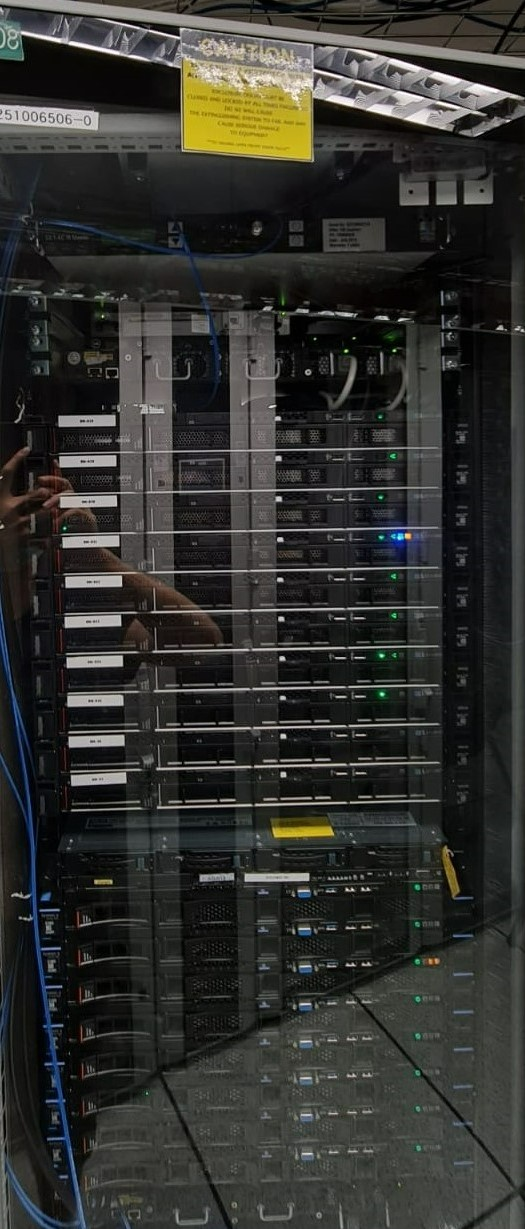
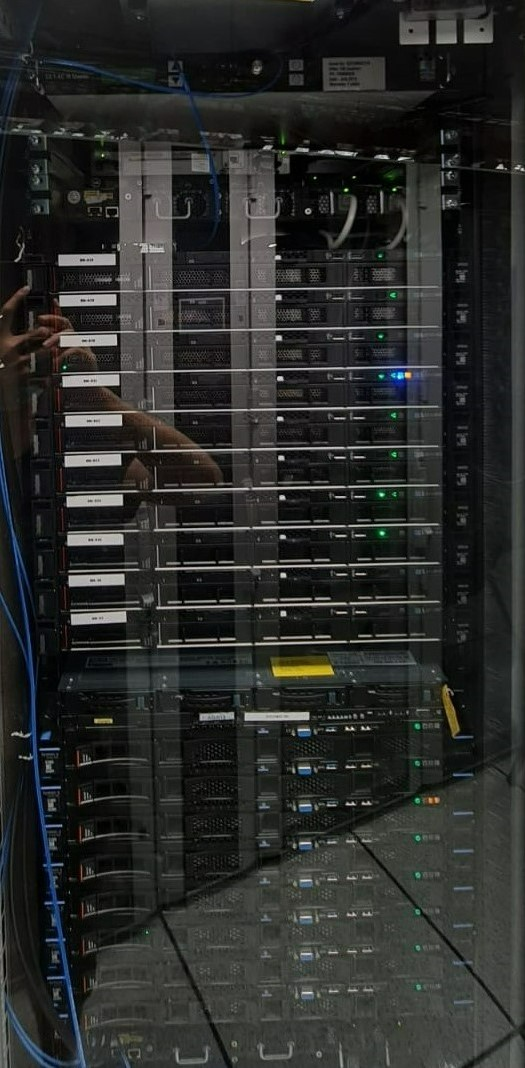
images update for website and staff directory

diff --git a/src/main/resources/templates/testbed_information.html b/src/main/resources/templates/testbed_information.html
@@ -16,10 +16,21 @@
 <p>&nbsp;</p>
 <p>&nbsp;</p>
 
-<div class="container" style="background-image: url('images/publication_back7.jpg'); object-fit: fill;object-position: 50% 50%;">
+<!--<div class="container" style="background-image: url('images/publication_back7.jpg'); object-fit: fill;object-position: 50% 50%;">-->
+    <div class="container">
     <!--<p class="heading h15 text-center">Testbed Info</p>-->
 
     <p align="Center"><b><font size="30px" color="#0d6dba">Testbed Info</font></b></p>
+    <div class="col-sm-4">
+        &nbsp;
+        <div class="row">
+            <img src="images/datacenter_ pics.jpg" alt="" width="350"  height="380" border="0" align="right" />
+        </div>
+        &nbsp;
+        <div class="row">
+            <img src="images/datacenter_ pics3.jpg" alt="" width="350"  height="420" border="0" align="right" />
+        </div>
+    </div>
     <div class="col-sm-8">
      <div class="row">
         <div class="panel panel-primary dashpanel">
@@ -48,6 +59,46 @@
             <p><i class="fa fa-check"></i> GPU: (2) NVIDIA Tesla V100 16GB HBM2 / Tesla P100 12GB HBM2</p>
         </div> <!-- panel -->
     </div>
+<!--
+    <div class="row">
+        <p>&nbsp;</p>
+        <div class="panel panel-primary dashpanel">
+            <h2 class="team-heading team-heading-current-team" th:text="#{image.heading.global}">text heading from .properties</h2>
+            <p>&nbsp;</p>
+            <div class="table-responsive">
+                <table class="table1">
+                    <thead BGCOLOR="#E0E0E0">
+                    <th width="30%"><p><h4><strong th:text="#{image.name}">Name</strong></h4></p></th>
+                    <th width="20%"><p><h4><strong th:text="#{image.OS}">OS</strong></h4></p></th>
+                    <th width="50%"><p><h4><strong th:text="#{image.description}">Description</strong></h4></p></th>
+                    </thead>
+                    <tr BGCOLOR="#fff">
+                        <td><div align="center">Ubuntu1404-64-STD</div></td>
+                        <td><div align="center">Linux</div></td>
+                        <td><div align="center">Ubuntu 14.04 LTS 64 bit Standard Image</div></td>
+                    </tr>
+                    <tr BGCOLOR="#fff">
+                        <td><div align="center">Ubuntu1604-64-STD</div></td>
+                        <td><div align="center">Linux</div></td>
+                        <td><div align="center">Ubuntu 16.04 LTS 64 bit Standard Image</div></td>
+                    </tr>
+                    <tr BGCOLOR="#fff">
+                        <td><div align="center">Ubuntu1604-64-GUI</div></td>
+                        <td><div align="center">Linux</div></td>
+                        <td><div align="center">Ubuntu 16.04 LTS 64 bit Image with Desktop GUI and VNC. NOTE: after the experiment is running, please first login to the nodes (using SSH client or web-ssh) and start vnc server by running 'vncserver'.</div></td>
+                    </tr>
+                </table>
+            </div>
+            <p>&nbsp;</p>
+            <p>To load a particular OS image onto your nodes, simply use the <code>tb-set-node-os</code> directive in your network configuration, e.g.:</p>
+            <pre><p># Set OS for node 'n0'</p><p>tb-set-node-os $n0 Ubuntu1604-64-STD</p></pre>
+        </div> &lt;!&ndash; panel &ndash;&gt;
+    </div>-->
+</div>
+
+</div> <!-- container -->
+
+<div class="container">
 
     <div class="row">
         <p>&nbsp;</p>
@@ -84,6 +135,7 @@
         </div> <!-- panel -->
     </div>
 
+
     <div class="row">
         <p>&nbsp;</p>
 
@@ -118,24 +170,16 @@
             </div>
             <form>
                 <ul>
-                    <li><i class=""></i> <span> Phone: </span>+65 6601 1056</li>
-                    <li><i class=""></i><span>Email:</span><a th:href="#{support.email.link}" th:text="#{support.email}"></a></li>
-                    <li><i class=""></i> <span> Address: </span><a href="https://www.google.com.sg/maps/dir//NUS+Computing,+13+Computing+Drive,+117417/@1.3437459,103.8240449,11z/data=!4m8!4m7!1m0!1m5!1m1!1s0x31da1af8c0faba33:0x9f0d02392be4dfbe!2m2!1d103.773846!2d1.295053?hl=en" >13 COMPUTING DRIVE, COM1 #01-16 Singapore 117417</a></li>
+                    <li><h4><span> Phone : </span>+65 6601 1056</h4></li>
+                    <li><h4><span> Address: </span><a href="https://www.google.com.sg/maps/place/Innovation+4.0/@1.2947287,103.7407406,13z/data=!4m5!3m4!1s0x31da1b3be9c6fabd:0xa50c38c2456942de!8m2!3d1.2946431!4d103.7757601?hl=en" >Innovation 4.0,3 Research Link,NUS,Singapore-117602</a></h4></li>
+                    <li><h4><span>Email:</span><a th:href="#{support.email.link}" th:text="#{support.email}"></a></h4></li>
+                    <p>&nbsp;</p>
                 </ul>
                 <p>&nbsp;</p>
             </form>
         </div>
-      </div>
     </div>
-
-    <div class="col-sm-4">
-        <div class="row">
-        </div>
-        <div class="row">
-                    <img src="images/datacenter_ pics.jpg" alt="" width="350"  height="850" border="0" align="right" />
-        </div>
-    </div>
-</div> <!-- container -->
+</div> <!--Container 2 closes-->
 
 <div th:replace="fragments/footer :: footer"></div>
 <object th:include="fragments/javascript :: javascript" th:remove="tag" />

diff --git a/src/main/resources/templates/people.html b/src/main/resources/templates/people.html
@@ -57,28 +57,20 @@
           <div class="row">
            <h8><b>Nidhi Kushwah</b></h8>
                <p><b><font color="585656"> Manager (Business Operations )</font></b> </p>
-              <p>Programme Management | Web Application Development</p>
+              <p>Programme Management | Business Analysis</p>
               </div>
         </div>
-
         <div class="col-sm-6">
-          <div class="row">
-            <h8><b>Nway Aung</b></h8>
-            <p><b><font color="585656">Assistant Manager (Infrastructure)</font></b> </p>
-                <p>Cloud Computing | Artificial Intelligence </p>
+              <div class="row">
+                  <h8><b>Hannah Oei</b></h8>
+                  <p><b><font color="585656">Assistant Manager (Business Operations)</font></b> </p>
+              </div>
           </div>
-        </div>
       </div>
 
     <div class="row">
         <p></p>
         <p></p>
-        <div class="col-sm-6">
-          <div class="row">
-            <h8><b>Hannah Oei</b></h8>
-              <p><b><font color="585656">Assistant Manager (Business Operations)</font></b> </p>
-          </div>
-        </div>
 
         <div class="col-sm-6">
           <div class="row">
@@ -86,6 +78,14 @@
             <p><b><font color="585656">Senior Executive (Business Operations)</font></b> </p>
          </div>
         </div>
+
+         <div class="col-sm-6">
+          <div class="row">
+            <h8><b>Deepshikha</b></h8>
+              <p><b><font color="585656">Software Engineer (Development)</font></b> </p>
+          </div>
+        </div>
+
     </div>
 
     <div class="row">

diff --git a/src/main/resources/templates/updates.html b/src/main/resources/templates/updates.html
@@ -55,9 +55,10 @@
             </div>
             <form>
                 <ul>
-                    <li><i class=""></i> <span> Phone: </span>+65 6601 1056</li>
-                    <li><i class=""></i><span>Email:</span><a th:href="#{support.email.link}" th:text="#{support.email}"></a></li>
-                    <li><i class=""></i> <span> Address: </span><a href="https://www.google.com.sg/maps/dir//NUS+Computing,+13+Computing+Drive,+117417/@1.3437459,103.8240449,11z/data=!4m8!4m7!1m0!1m5!1m1!1s0x31da1af8c0faba33:0x9f0d02392be4dfbe!2m2!1d103.773846!2d1.295053?hl=en" >13 COMPUTING DRIVE, COM1 #01-16 Singapore 117417</a></li>
+                    <li><h4><span> Phone : </span>+65 6601 1056</h4></li>
+                    <li><h4><span> Address: </span><a href="https://www.google.com.sg/maps/place/Innovation+4.0/@1.2947287,103.7407406,13z/data=!4m5!3m4!1s0x31da1b3be9c6fabd:0xa50c38c2456942de!8m2!3d1.2946431!4d103.7757601?hl=en" >Innovation 4.0,3 Research Link,NUS,Singapore-117602</a></h4></li>
+                    <li><h4><span>Email:</span><a th:href="#{support.email.link}" th:text="#{support.email}"></a></h4></li>
+                    <p>&nbsp;</p>
                 </ul>
                 <p>&nbsp;</p>
             </form>

diff --git a/src/main/resources/templates/services_and_tools1.html b/src/main/resources/templates/services_and_tools1.html
@@ -224,7 +224,7 @@
 
     <div class="container">
       <div class="row">
-          <h2 align="center"><b><font color="#0d6dba">Services &amp; Applications</font></b></h2>
+          <h2 align="center"><b><font color="#0d6dba">Services &amp; Tools</font></b></h2>
       </div>
     </div>
     <br></br>
@@ -275,7 +275,7 @@
         <h2 class="team-heading team-heading-current-team1"><b>Support for Capture-The-Flag events</b></h2>
         <div class="row">
           <div class="col-sm-4">
-            <img src="images/security1.jpg" alt="" width="400"  height="200" border="0" align="left" />
+            <img src="images/ITE_CTF.jpg" alt="" width="400"  height="200" border="0" align="left" />
           </div>
           <div class="col-sm-8">
             <ul>

diff --git a/src/main/resources/templates/recent_events.html b/src/main/resources/templates/recent_events.html
@@ -45,7 +45,7 @@
        <div class="col-md-4 wp4">
           <div class="overlay-effect effects clearfix">
             <div class="img">
-              <img class="img-responsive" src="../static/images/security1.jpg.jpg" th:src="@{~/images/security1.jpg}" width="720" height="350" alt="ITE_MOU_1"/>
+              <img class="img-responsive" src="../static/images/ncl_ctf2.jpg" th:src="@{~/images/ncl_ctf2.jpg}" width="720" height="350" alt="ITE_MOU_1"/>
             </div>
           </div>
           <h3 class="news-header">DSO CTF</h3>
